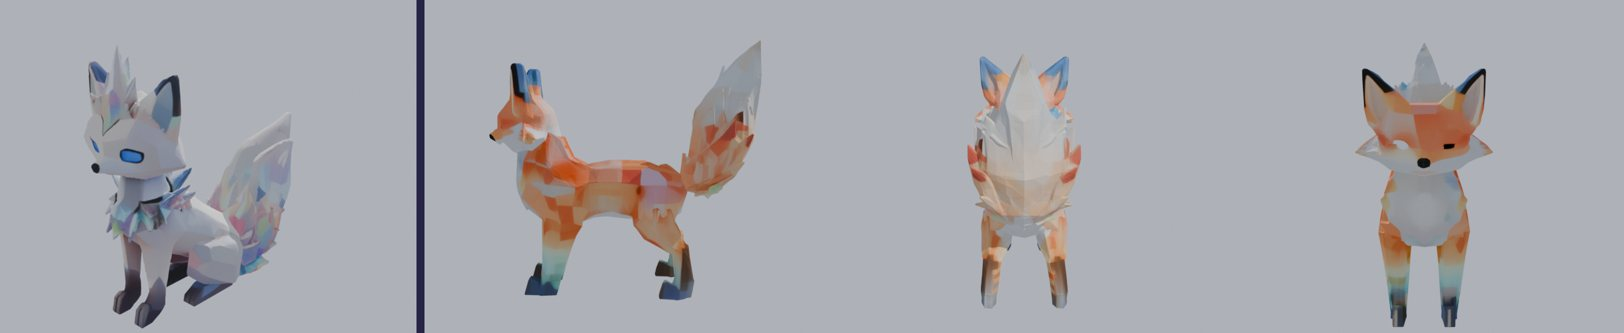
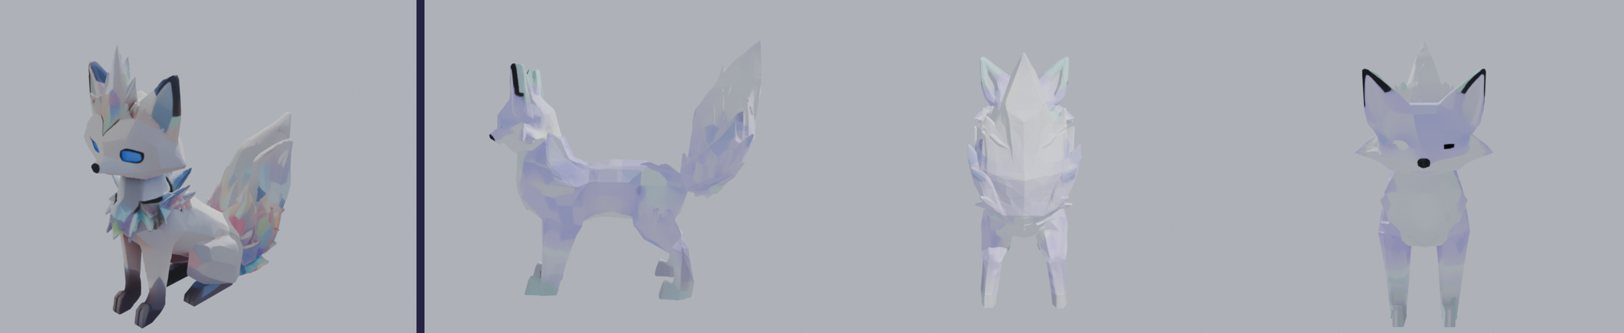
Croquis projet roblox 1

diff --git a/projet-roblox-1/index.html b/projet-roblox-1/index.html
@@ -17,7 +17,7 @@ figure{margin:0;background:var(--panel);border:1px solid var(--line);border-radi
 <li>Hydre : 3 essais, il fait un corps debout ou deux dragons collés.</li>
 <li>Renard à trois queues : 3 essais, il fait toujours 5 à 7 queues (renard à neuf queues des légendes).</li>
 <li>Loup : déjà refait (loup 10).</li></ul></div>
-<div class="box"><b>Corrigés après ton retour</b><ul><li>Renard : regénéré (patte arrière tordue et collerette derrière la tête sur l'ancien essai) : debout sur ses 4 pattes, une seule queue.</li><li>Lion étoilé, Lapin lunaire : regénérés (queue mal placée).</li><li>Salamandre de feu, Tortue de cristal, Kirin : <b>modèles d'origine gardés</b>, seule la queue est corrigée (déroulée et affinée, palmes ramenées en petite queue, queue remise dans l'axe).</li></ul></div>
+<div class="box"><b>Corrigés après ton retour</b><ul><li>Renard : regénéré (patte arrière tordue et collerette derrière la tête sur l'ancien essai) : debout sur ses 4 pattes, une seule queue.</li><li>Lion étoilé, Lapin lunaire : regénérés (queue mal placée).</li><li>Salamandre de feu, Tortue de cristal, Kirin : <b>modèles d'origine gardés</b>, seule la queue est corrigée (déroulée et affinée, palmes ramenées en petite queue, queue remise dans l'axe).</li><li>Prisme suprême : nouvelle forme gardée, couleurs d'avant remises (blanc nacré, reflets bleus et violets).</li></ul></div>
 <p>Dis-moi ceux que tu refuses (je les regénère) ; les autres, je les mets dans le jeu avec toute la chaîne (squelette, peau propre, poils en relief).</p>
 <figure><img src="CerfEtoiles.jpg" alt="Cerf étoilé : actuel puis nouveau de profil, de dos et de face" loading="lazy"><figcaption><b>Cerf étoilé</b></figcaption></figure>
 <figure><img src="ChatGalactique.jpg" alt="Chat galactique : actuel puis nouveau de profil, de dos et de face" loading="lazy"><figcaption><b>Chat galactique</b></figcaption></figure>
